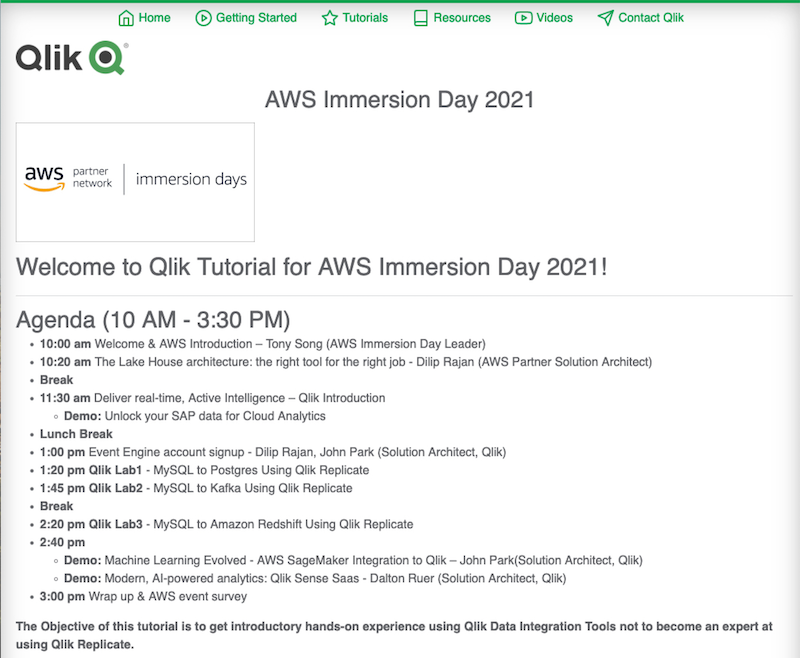
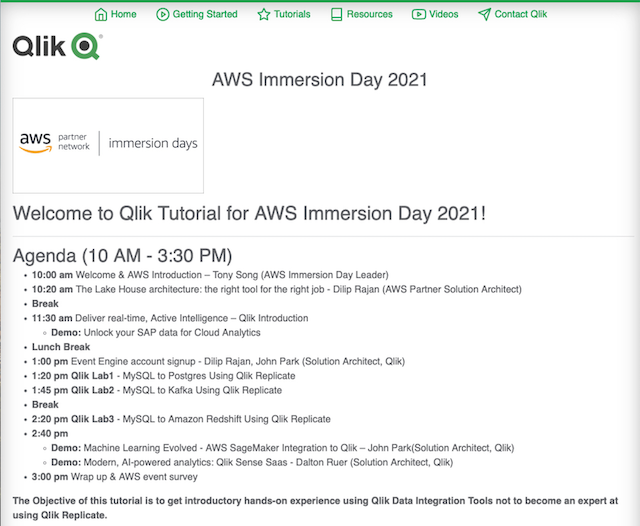
image changes

diff --git a/content/_index.md b/content/_index.md
@@ -19,40 +19,24 @@ ________________________________________________________________
     * **Demo:** Modern, AI-powered analytics: Qlik Sense Saas - Dalton Ruer (Solution Architect, Qlik)
 * **2:30 pm** Wrap up & AWS event survey
 
-
 __The Objective of this tutorial is to get introductory hands-on experience using Qlik Data Integration Tools not to become an expert at using Qlik Replicate.__
 
 This tutorial will demonstrate how to use Qlik Replicate to ingest and deliver data in real-time to your various environments. Follow the step-by-step tutorial to quickly load sample data from a MySQL database into your PostgresSQL data warehouse, then watch as data updates happen in real time.  Due to cost and timing this tutorial runs in a single EC2 environment setup with Qlik Replicate and Docker for MySQL, PostgreSQL, and PGAdmin.
 
 ## Overview
-Actual tutorial consist of three parts:
-* Part 1 Configuring Qlik Replicate
-* Part 2 Designing Qlik Replicates Tasks
-* Part 3 Monitoring Qlik Replicate Tasks 
+Objectives:
 
-While the tutorial scenario quickly highlights the concept of data ingestion and streaming to PostgresSQL, 
+* Learn how to Configure Qlik Replicate to Work with Source and Target Endpoints.
+* Learn how to Design Qlik Replicates Tasks.
+* Learn how to MonitorQlik Replicate Tasks.
+
+Our Tutorials will consist of 1 demo to get students to understand the flow of Qlik Replicate and have 2 real life scenarios for students get handon experience with Qlik Replicate.
+
+While the tutorial scenario quickly highlights the concept of data ingestion and streaming to PostgresSQL,Kafka,and Amazon Redshift there are additional tuning that can be done to make get efficiency. 
 Qlik Replicate can also deliver any data from popular relational database systems, mainframes, or SAP applications that you might have in your enterprise.
 
-## Source and Target Endpoints Supported:  
-#### Source Endpoint for Qlik Replicate 
-* Amazon Aurora MySQL
-* AWS Aurora Cloud for PostgreSQL
-* Amazon RDS for MySQL
-* Amazon RDS for MariaDB
-* Amazon RDS for PostgreSQL
-* Amazon RDS for SQL Server
-* Amazon RDS for Oracle
-* Salesforce
-#### Target Endpoints for Qlik Replicate 
-* Amazon Aurora MySQL
-* Amazon Aurora PostgreSQL
-* Amazon RDS for MariaDB
-* Amazon RDS for MySQL
-* Amazon RDS for SQL Server
-* Amazon RDS for Oracle
-* Amazon RDS for PostgreSQL
-* Amazon Redshift
+In addition, at the end of the tutorial you should check out Qlik Compose, our Data Warehousing Automation solution that can automate the process of creating and updating analytics-ready data sets in Amazon Redshift. 
 
-In addition, at the end of the tutorial you should check out Qlik Compose, our Data Warehousing Automation solution that can automate the process of creating and updating analytics-ready data sets in Amazon Redshift. Click the [Contact Us](../contact_us) menu and complete the form to request more information about Qlik Replicate connectivity options or Qlik Compose for Data Warehouses.
+Click the [Contact Us](../contact_us) menu and complete the form to request more information about Qlik Replicate connectivity or Qlik Compose for Data Warehouses.
 
-Now Feel free to ask Questions and Please click on `Getting Started` to Start the AWS Immersion Day Tutorials
+Now Feel free to ask Questions and Please click on [Getting Started](../getting_started) to Start the AWS Immersion Day Tutorials

diff --git a/content/getting_started.md b/content/getting_started.md
@@ -15,45 +15,52 @@ Qlik Replicate software is installed on the same EC2 instance with full trial li
 
 Amazon Redshift Cluster and Sample AWS Bucket is created for your use in this lab.
 
-# You should ask the instructor for your server ip address or check in CloudFormation console for information.
+### Getting access to your lab environment
 
-__Before starting tutorial and labs make sure you can log into the following__ 
+__By this time all students should have recieved an email from instructor for your server ip address__
 
-### Instruction for this Lab
+# Before starting tutorial and labs make sure you can log into the following:
+
+1. Documentation for this Lab
 ______________________
-* url: __http://your_host_ip__  
+* url: __http://YOUR_SERVER_IP_ADDRESS__  
 
 ![](/images/prod/instructions.png)
 
-### Connecting to Qlik Replicate Web UI
+2. Connecting to Qlik Replicate Web UI
 ________________________
-_This lab has been tested by  Firefox Browser and you need click `Advanced...` and accept risk due to certificates_
+* url:__https://YOUR_SERVER_IP_ADDRESS:3552/attunityreplicate/__
+
+_This lab has been tested by Firefox Browser and due to certificates not being issued for ephemral servers you will see below warning
 
 ![](/images/prod/warning.png)
 
-* url:___https://your_host_ip:3552/attunityreplicate/_
+Please Click `Advanced...` and accept risk
+
 * User Name: `admin`
 * Password: `Aws_immersion123`  
+
+If you must use a different browser please let the instructor know.
 
 ![](/images/prod/logon_replicate.png)
 
 __For the lab we will not be using a certificate rather we will 'accept risk and proceed on'__
 
-### Connecting to SQLPad
+3. Connecting to SQLPad
 ___
 __SQLPad is an Open Source tool that allows user to run SQL Query.__
-* url: ___https://your_host_ip:3000_
+* url: ___https://YOUR_SERVER_IP_ADDRESS:3000_
 * User Name: `admin@qlik.com`
 * Password: `Aws_immersion123`  
 
 ![](/images/prod/sqlpad.png)
 
-### Connecting to Kafdrop
+4. Connecting to Kafdrop
 ___
 __Kafdop is an Open Source tool that allows user to view Kafka queue and Topics.__
-* url: ___https://your_host_ip:9000_
+* url: ___https://YOUR_SERVER_IP_ADDRESS:9000_
 
 ![](/images/prod/kafdrop.png)
 
 
-# [Please Click here to go to Tutorial](../tutorials) 
+### Please Click [here](../tutorials) to go to Tutorial.

diff --git a/content/db-run-task.md b/content/db-run-task.md
@@ -4,6 +4,8 @@ section: Database-to-Database Replication
 tutorialtype: replicate
 permalink: /replicate/tutorial/db-run-task.php
 ---
+*Optional
+Before you  
 
 After you press `Run`, Replicate will automatically switch from **Designer** mode to **Monitor** mode. 
 You will be able to watch the status of the full load as it occurs, and then switch to monitoring 
@@ -17,11 +19,11 @@ see it in action.
 
 ![Postgres Task 6 Image](/images/postgres-task-6.png)
 
-If you would like to explore the data that we have delviered to Postgres, click on the folowing link:
+If you would like to explore the data that we have delviered to Postgres, go to the folowing link:
 
 __http://<your_ip_address>:3000__
 
-This link will open PGAdmin in another window in your browser. Log in with:
+This link will open SQLPad in another window in your browser. Log in with:
 
 * User: `admin@qlik.com`
 * Password: `Aws_immersion123`
@@ -29,7 +31,7 @@ This link will open PGAdmin in another window in your browser. Log in with:
 From there, click on drop down bar in the navigation pane.
 You will see `mysql-src-database` as preconfigured and `postgres-tgt-database` in configuration menu
 
-![PGAdmin 2 Image](/images/pgadmin-2.png)
+![SQLPad1 Image](/images/prod/sqlpad1.png)
 
 Drop down to 'postgres-tgt-database` which will authenticate and bring up the database catalog
 
@@ -39,7 +41,13 @@ You can run any query on testdrive tables and see the new data that was loaded.
 
 - Execute Query Such as "select * from testdrive."Batting"
 
+![SQLPad2 Image](/images/prod/sqlpad2.png)
+
 - Also Configure a Quick Widget to see the values in postgres Tables
+
+![SQLPad3 Image](/images/prod/sqlpad3.png)
+
+![SQLPad4 Image](/images/prod/sqlpad4.png)
 
 Feel free to explore the structure, etc. associated with the tables we have created. 
 

diff --git a/content/tutorials.md b/content/tutorials.md
@@ -11,7 +11,7 @@ First things first, we need to open Qlik Replicate.
   
 Once you are logged in you will see the main screen for Qlik Replicate.
 
-![](/images/attunityreplicate.jpg)
+![](/images/prod/attunityreplicate.png)
  
 ### Navigating the Tutorial
 
@@ -41,10 +41,11 @@ __Qlik Lab 2 - MySQL to Kafka in RealTime__
 __Qlik Lab 3 - MySQL to Amazon Redshift in RealTime__
 
    1. [Step 1 - MySQL Source Configuration](../db-mysql-source)
-   2. [Step 2 - Amazon Redshift Target Configuration](../db-postgres-target)
-   3. [Step 3 - Configure Your Task](../db-config-task)
-   4. [Step 4 - Configure a Transformation](../db-config-xform)
-   5. [Step 5 - Run Your Task](../db-run-task)
+   2. [Step 2 - Amazon Redshift Target Configuration](../db-redshift-target)
+        - [Step 2.1 Amazon S3 and IAM Configuration](../db-s3_iam_)
+   3. [Step 3 - Configure Your Task](../db-redshift_config-task)
+   4. [Step 4 - Configure a Transformation](../db-redshift_config-xform)
+   5. [Step 5 - Run Your Task](../db-redshift run-task)
 
 
 Click here to [Start Lab1 - MySQL to Postgres](../db-mysql-source)  

diff --git a/content/faq.md b/content/faq.md
@@ -1,0 +1,33 @@
+# Frequently Asked Questions
+______________
+
+#### What are Sources and Target Systems Supported By Qlik Replicate on AWS?
+
+__Source Endpoint for Qlik Replicate:__
+* Amazon Aurora MySQL
+* AWS Aurora Cloud for PostgreSQL
+* Amazon RDS for MySQL
+* Amazon RDS for MariaDB
+* Amazon RDS for PostgreSQL
+* Amazon RDS for SQL Server
+* Amazon RDS for Oracle
+* Salesforce
+
+__Target Endpoints for Qlik Replicate:__
+* Amazon Aurora MySQL
+* Amazon Aurora PostgreSQL
+* Amazon RDS for MariaDB
+* Amazon RDS for MySQL
+* Amazon RDS for SQL Server
+* Amazon RDS for Oracle
+* Amazon RDS for PostgreSQL
+* Amazon Redshift
+* Amazon S3(Update not supported)
+
+#### What is CDC or Change Data Capture ?
+
+CDC is method of detecting changes from Database or OLTP near real time ?
+Qlik Replicate is an Enterprise CDC tool used by 1000's organization to move data between systems of records and target systems.
+
+#### How is this lab setup ?
+This lab is setup using Cloudformation scripts and Docker Compose for brining up Database, Kafka, Tools, Documentations

diff --git a/content/db-mysql-source.md b/content/db-mysql-source.md
@@ -1,11 +1,12 @@
 ---
-title: Step 1 - MySQL Source Configuration
+title:   Step 1 - MySQL Source Configuration
 section: Database-to-Database Replication
 tutorialtype: replicate
 ---
 
-The first thing we need to do is create a source endpoint. We do this by clicking 
-the `Manage Endpoint Connections` button at the top of the screen.
+**If you have done this in previous lab please skip**
+
+The first thing we need to do is create a source endpoint. We do this by clicking the `Manage Endpoint Connections` button at the top of the screen.
 
 ![Manage Endpoints Image](/images/manage-endpoints.png)
 
@@ -15,6 +16,7 @@ And you will see this window.
 
 From there, click on `Add New Endpoint Connection` link or the `+ New Endpoint Connection` button 
 at the top of the screen.
+
 
 Once you do that you will see this window:
 

diff --git a/content/db-postgres-target.md b/content/db-postgres-target.md
@@ -32,7 +32,6 @@ like  `Postgres Target`,
 
 ![Postgres Target 1 Image](/images/postgres-trg-1.png)
 
-![Postgres Target 2 Image](/images/postgres-trg-2.png)
 
 Fill in the blanks as indicated in the image above:
 * Host: `127.0.0.1`
